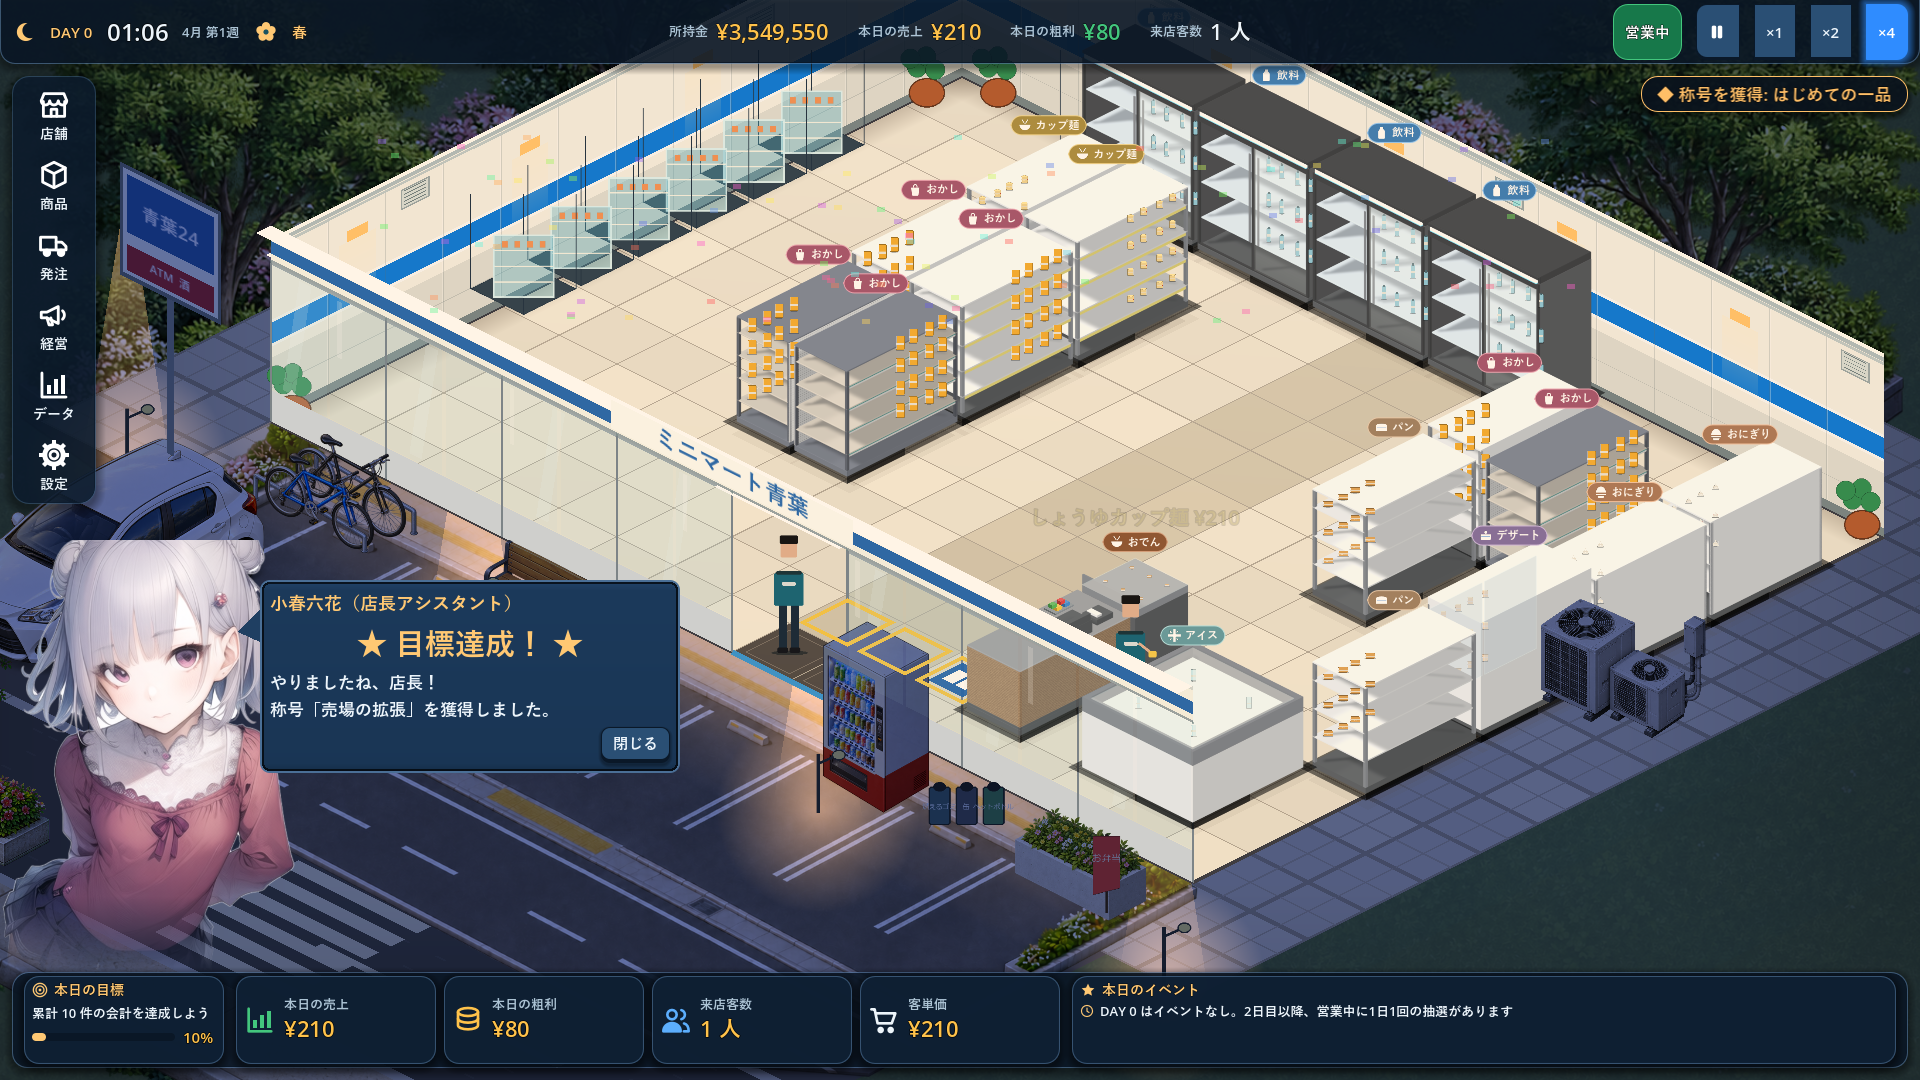
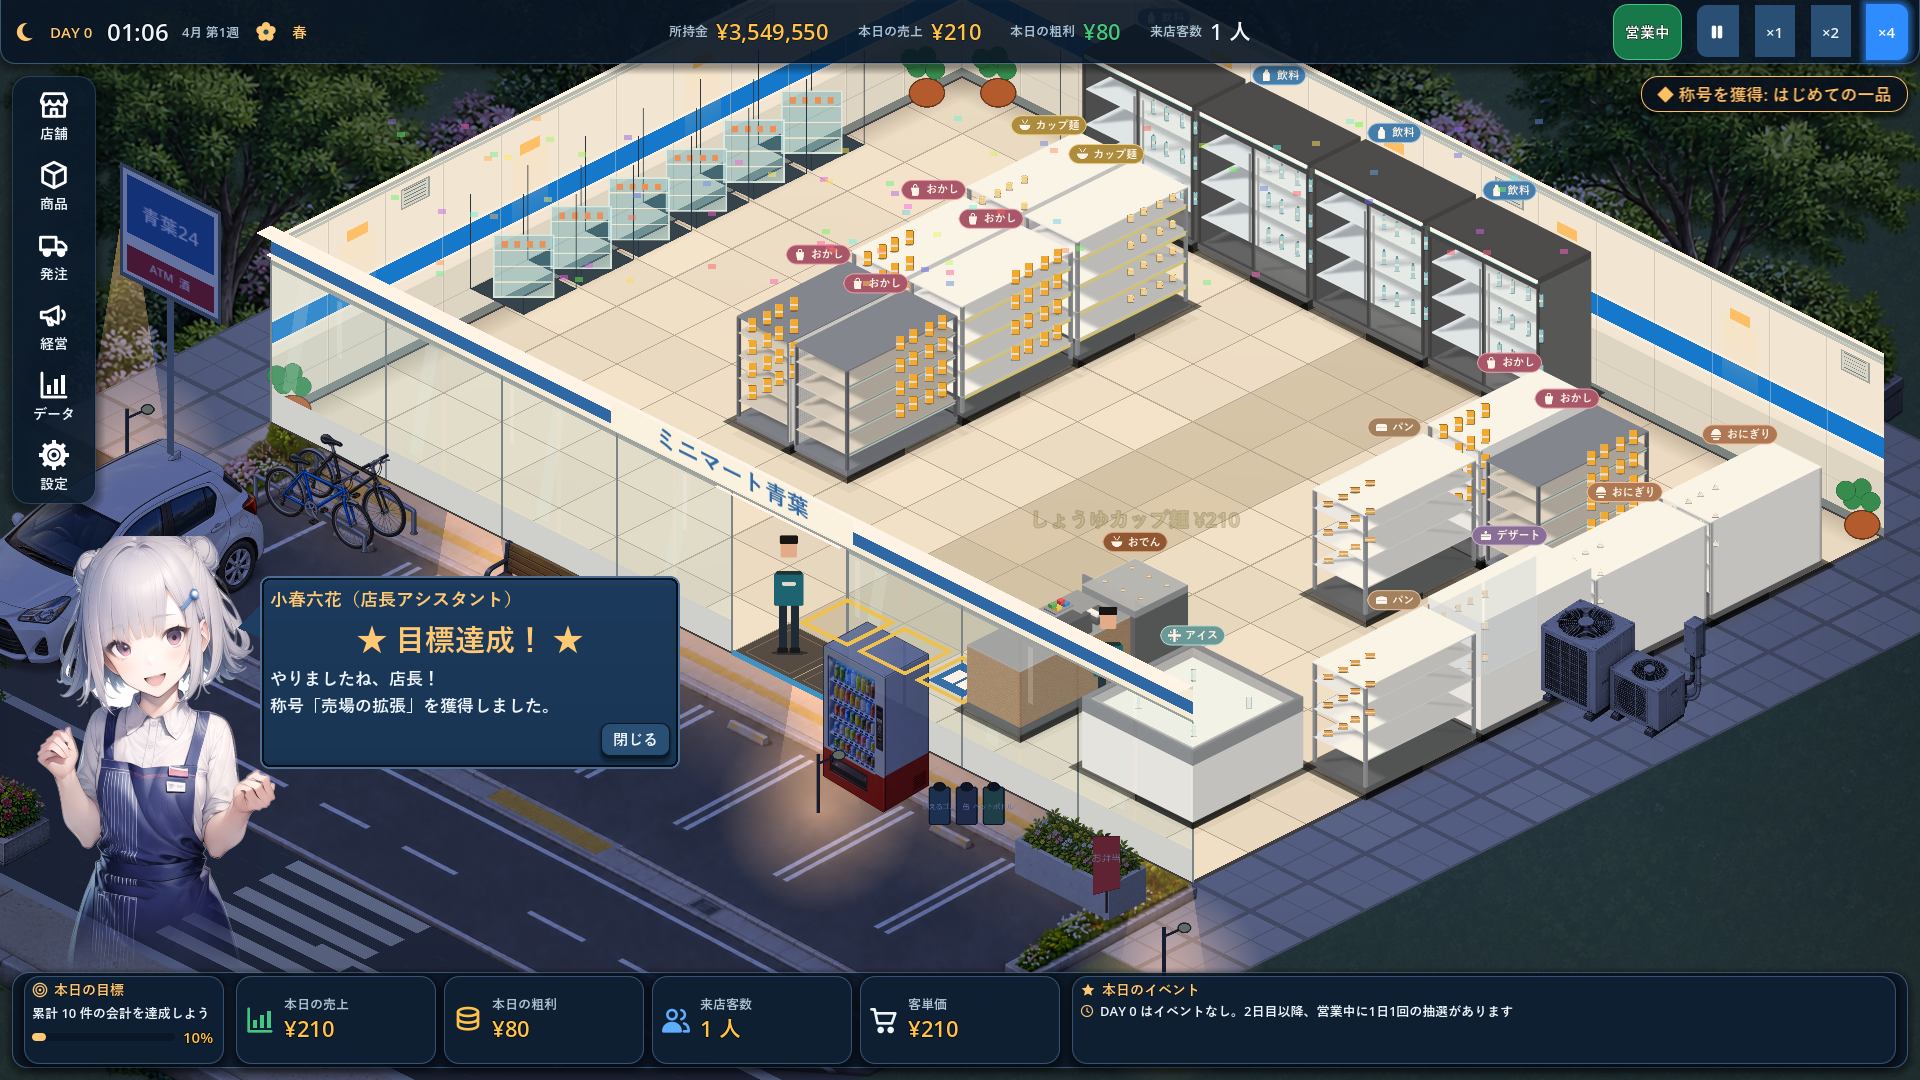
feat: 小春六花's standing figures from the local ComfyUI, with normal / happy / worried faces (#32)
tools/assets/comfy_rikka.py renders her through the user's ComfyUI (Anima
base, Koharu and anima-style LoRAs at 0.8, triggers koharu_rikka /
anima_style) as a convenience-store clerk on white, and keeps each render's
prompt and seed in a .json beside it (assets/source/.../generated: four
normal, two happy and two worried candidates). Picked: normal 3103, happy
3102, worried 3101, cut out with tools/assets/cutout_rikka_stand.py into
assets/ui/characters/rikka_{normal,happy,worried}.png; the provisional cut
of the user's source art is retired.

Her face follows what she says: happy while celebrating, worried over a
day-end card with a loss or no sale (happy otherwise), normal for story
lines. Credits rows for the renders and the three cut-outs.

Changed region(s): [[0.0, 0.4889, 0.3438, 0.8861], [0.5625, 0.55, 0.625, 0.6111]]

diff --git a/tools/assets/comfy_rikka.py b/tools/assets/comfy_rikka.py
@@ -1,0 +1,88 @@
+"""Generates the manager assistant (小春六花) figures with the local ComfyUI (Anima base + Koharu and anima-style
+LoRAs at 0.8, the user's setup) and saves the raw images under assets/source/characters/koharu_rikka/generated/.
+
+    python tools/assets/comfy_rikka.py normal 101 102 103     # expression, then seeds
+    python tools/assets/comfy_rikka.py happy 101
+
+Every image gets a .json next to it with the exact prompt, seed and models, so it can be made again.
+"""
+import json
+import sys
+import time
+import urllib.parse
+import urllib.request
+from pathlib import Path
+
+URL = "http://127.0.0.1:8188"
+OUT = Path("assets/source/characters/koharu_rikka/generated")
+CHARACTER = ("koharu_rikka, anima_style, 1girl, solo, grey hair, purple eyes, double bun, short hair, hair ornament, "
+             "anime illustration, soft shading, delicate lineart, gentle highlights, "
+             "convenience store clerk, white short-sleeved collared shirt, navy blue apron with thin white vertical stripes, "
+             "small name tag on the apron, ")
+FRAMING = ("cowboy shot, upper body to thighs, standing, facing the viewer, centered, full head visible with margin above, "
+           "plain pure white background, simple background, no shadow on the background")
+EXPRESSIONS = {
+    "normal": "gentle friendly smile, closed mouth, looking at viewer, one hand raised slightly in a welcoming gesture, ",
+    "happy": "very happy, big open-mouth smile, eyes bright, both hands in small fists at chest level, cheerful celebrating pose, ",
+    "worried": "worried troubled smile, eyebrows lowered, one hand on her cheek, small sweat drop, looking at viewer, ",
+}
+NEGATIVE = ("low quality, worst quality, malformed hands, extra fingers, missing fingers, fused fingers, extra arms, "
+            "duplicate limbs, distorted face, cropped head, out of frame, text, watermark, logo, signature, "
+            "busy background, scenery, room, shelves, other people")
+WIDTH, HEIGHT = 640, 960
+
+
+def workflow(expression: str, seed: int) -> dict:
+    prefix = "rikka_%s_%d" % (expression, seed)
+    return {
+        "1": {"class_type": "UNETLoader", "inputs": {"unet_name": "Anima-Base-v1.0.safetensors", "weight_dtype": "default"}},
+        "2": {"class_type": "CLIPLoader", "inputs": {"clip_name": "qwen_3_06b_base.safetensors", "type": "qwen_image"}},
+        "3": {"class_type": "LoraLoaderModelOnly", "inputs": {"model": ["1", 0], "lora_name": "Koharu-Koharu-epoch100.safetensors", "strength_model": 0.8}},
+        "4": {"class_type": "LoraLoaderModelOnly", "inputs": {"model": ["3", 0], "lora_name": "anima-style-epoch35-lr5e5.safetensors", "strength_model": 0.8}},
+        "5": {"class_type": "CLIPTextEncode", "inputs": {"clip": ["2", 0], "text": CHARACTER + EXPRESSIONS[expression] + FRAMING}},
+        "6": {"class_type": "CLIPTextEncode", "inputs": {"clip": ["2", 0], "text": NEGATIVE}},
+        "7": {"class_type": "EmptySD3LatentImage", "inputs": {"width": WIDTH, "height": HEIGHT, "batch_size": 1}},
+        "8": {"class_type": "KSampler", "inputs": {"model": ["4", 0], "positive": ["5", 0], "negative": ["6", 0], "latent_image": ["7", 0],
+                                                    "seed": seed, "steps": 24, "cfg": 4.5, "sampler_name": "euler", "scheduler": "simple", "denoise": 1.0}},
+        "9": {"class_type": "VAELoader", "inputs": {"vae_name": "qwen_image_vae.safetensors"}},
+        "10": {"class_type": "VAEDecode", "inputs": {"samples": ["8", 0], "vae": ["9", 0]}},
+        "11": {"class_type": "SaveImage", "inputs": {"images": ["10", 0], "filename_prefix": prefix}},
+    }
+
+
+def _post(path: str, body: dict) -> dict:
+    req = urllib.request.Request(URL + path, data=json.dumps(body).encode(), headers={"Content-Type": "application/json"})
+    with urllib.request.urlopen(req, timeout=30) as r:
+        return json.load(r)
+
+
+def _get(path: str) -> bytes:
+    with urllib.request.urlopen(URL + path, timeout=60) as r:
+        return r.read()
+
+
+def generate(expression: str, seed: int) -> Path:
+    wf = workflow(expression, seed)
+    pid = _post("/prompt", {"prompt": wf})["prompt_id"]
+    for _ in range(600):
+        h = json.loads(_get("/history/" + pid))
+        if pid in h and h[pid].get("outputs"):
+            img = h[pid]["outputs"]["11"]["images"][0]
+            q = urllib.parse.urlencode({"filename": img["filename"], "subfolder": img.get("subfolder", ""), "type": img["type"]})
+            OUT.mkdir(parents=True, exist_ok=True)
+            dst = OUT / ("rikka_%s_%d.png" % (expression, seed))
+            dst.write_bytes(_get("/view?" + q))
+            dst.with_suffix(".json").write_text(json.dumps({"expression": expression, "seed": seed, "comfy_output": img["filename"],
+                                                             "positive": wf["5"]["inputs"]["text"], "negative": NEGATIVE,
+                                                             "base": "Anima-Base-v1.0", "loras": {"Koharu-Koharu-epoch100": 0.8, "anima-style-epoch35-lr5e5": 0.8},
+                                                             "size": [WIDTH, HEIGHT], "steps": 24, "cfg": 4.5, "sampler": "euler/simple"},
+                                                            ensure_ascii=False, indent=2), encoding="utf-8")
+            return dst
+        time.sleep(1)
+    raise TimeoutError(pid)
+
+
+if __name__ == "__main__":
+    expr = sys.argv[1]
+    for s in sys.argv[2:]:
+        print(generate(expr, int(s)))

diff --git a/docs/ASSET_CREDITS.md b/docs/ASSET_CREDITS.md
@@ -24,7 +24,10 @@
 |fixture_atm|assets/generated/fixtures/atm|AI|ユーザー提供AI画像 S01_atm.png → https://github.com/TencentARC/Pixal3D via tools/assets/pixal3d (cutout → Pixal3D → render_fixture.py → crop_fixture.py); assets/generated/fixtures/atm/PROVENANCE.json|Pixal3D b0cb2e1 (MIT) + DINOv3 ViT-L/16 (DINOv3 License) + NAF (Apache-2.0) + Blender 4.5.3 Cycles|ユーザー自身の参照画像から生成。実在ブランド・ロゴなし。RMBG-2.0(非商用)不使用|2026-10-25|ユーザーが採用(2026-10-25)＋validate_manifests|yes|
 |fixture_copier|assets/generated/fixtures/copier|AI|ユーザー提供AI画像 S02_multifunction_copier.png → https://github.com/TencentARC/Pixal3D via tools/assets/pixal3d (cutout → Pixal3D → render_fixture.py → crop_fixture.py); assets/generated/fixtures/copier/PROVENANCE.json|Pixal3D b0cb2e1 (MIT) + DINOv3 ViT-L/16 (DINOv3 License) + NAF (Apache-2.0) + Blender 4.5.3 Cycles|ユーザー自身の参照画像から生成。実在ブランド・ロゴなし。RMBG-2.0(非商用)不使用|2026-10-25|ユーザーが採用(2026-10-25)＋validate_manifests|yes|
 |character_koharu_rikka_source|assets/source/characters/koharu_rikka|third-party|ユーザー提供画像（2026-10-30、Claude Code 会話の添付。512×760 RGB PNG、SHA-256 c72903aeb59b5ec98babecce38fd0dcd26131bca82b1e5ddc64b06807f897a81）。無加工で保存。キャラクター利用ガイドライン https://tokyo6.tokyo/guidelines/|不明（ユーザー提供。作者・生成方法は未記録）|キャラクター「小春六花」（TOKYO6 ENTERTAINMENT）。公式のキャラクター利用ガイドライン https://tokyo6.tokyo/guidelines/ に従う必要あり。画像そのものの作者・利用条件は未確認|2026-10-30|ユーザーが店長アシスタントとして指定(2026-10-30)。配布可はユーザーの判断（2026-10-30）|yes|
-|ui_rikka_stand|assets/ui/characters/rikka_stand.png|third-party|assets/source/characters/koharu_rikka/rikka_source.png の白背景を透過に（tools/assets/cutout_rikka_stand.py：外周から連続する白と髪の隙間の白を透過、縁の白抜き、下端 80〜97% をフェード）。512×737 RGBA。キャラクター利用ガイドライン https://tokyo6.tokyo/guidelines/|Pillow + NumPy + SciPy|元画像と同じ（小春六花のキャラクター利用ガイドライン https://tokyo6.tokyo/guidelines/ 、画像の権利は未確認）|2026-10-30|目視（暗色・明色の背景で確認）。仮の立ち絵。配布可はユーザーの判断（2026-10-30）|yes|
+|character_koharu_rikka_comfy|assets/source/characters/koharu_rikka/generated|AI|ローカル ComfyUI で生成（2026-10-31）：Anima-Base-v1.0 + LoRA Koharu-Koharu-epoch100（0.8、トリガー koharu_rikka）+ anima-style-epoch35-lr5e5（0.8、トリガー anima_style）、640×960、euler/simple 24 steps cfg 4.5。各 PNG の隣の .json に prompt・seed を記録（tools/assets/comfy_rikka.py）。キャラクター利用ガイドライン https://tokyo6.tokyo/guidelines/|Anima-Base-v1.0 + Koharu / anima-style LoRA（ユーザー提供の環境）|小春六花のキャラクター利用ガイドライン https://tokyo6.tokyo/guidelines/ に従う。ベースモデル・LoRA の利用条件はユーザー環境のもの|2026-10-31|目視で表情・手・衣装を確認し、通常 seed 3103・喜び 3102・困り 3101 を採用。配布可はユーザーの判断（2026-10-30）|yes|
+|ui_rikka_normal|assets/ui/characters/rikka_normal.png|AI|assets/source/characters/koharu_rikka/generated/rikka_normal_3103.png（prompt は同名 .json）の白背景を透過に（tools/assets/cutout_rikka_stand.py：外周から連続する白と髪の隙間の白を透過、縁の白抜き、下端 80〜97% をフェード）。640×931 RGBA、SHA-256 先頭 f144e45045766a37|ComfyUI（Anima-Base-v1.0 + Koharu / anima-style LoRA）+ Pillow/NumPy/SciPy|元画像と同じ（小春六花のキャラクター利用ガイドライン https://tokyo6.tokyo/guidelines/ ）|2026-10-31|目視（暗色の背景で確認）。配布可はユーザーの判断（2026-10-30）|yes|
+|ui_rikka_happy|assets/ui/characters/rikka_happy.png|AI|assets/source/characters/koharu_rikka/generated/rikka_happy_3102.png（prompt は同名 .json）の白背景を透過に（tools/assets/cutout_rikka_stand.py：外周から連続する白と髪の隙間の白を透過、縁の白抜き、下端 80〜97% をフェード）。640×931 RGBA、SHA-256 先頭 1127b33720fffbd9|ComfyUI（Anima-Base-v1.0 + Koharu / anima-style LoRA）+ Pillow/NumPy/SciPy|元画像と同じ（小春六花のキャラクター利用ガイドライン https://tokyo6.tokyo/guidelines/ ）|2026-10-31|目視（暗色の背景で確認）。配布可はユーザーの判断（2026-10-30）|yes|
+|ui_rikka_worried|assets/ui/characters/rikka_worried.png|AI|assets/source/characters/koharu_rikka/generated/rikka_worried_3101.png（prompt は同名 .json）の白背景を透過に（tools/assets/cutout_rikka_stand.py：外周から連続する白と髪の隙間の白を透過、縁の白抜き、下端 80〜97% をフェード）。640×931 RGBA、SHA-256 先頭 644df6bab7125949|ComfyUI（Anima-Base-v1.0 + Koharu / anima-style LoRA）+ Pillow/NumPy/SciPy|元画像と同じ（小春六花のキャラクター利用ガイドライン https://tokyo6.tokyo/guidelines/ ）|2026-10-31|目視（暗色の背景で確認）。配布可はユーザーの判断（2026-10-30）|yes|
 |mockup_kuji_screen_rikka_source|assets/source/mockups/kuji_screen_rikka_source.png|AI|ユーザー提供のモックアップ画像（2026-10-31、Claude Code 会話の添付。画像生成 prompt はユーザー側。1672×941 RGB PNG、SHA-256 f84cdc7b1b3f8fb03e76821aa7299440a0a32eff6de3f3e66795f492d0785936）。無加工で保存。小春六花のキャラクター利用ガイドライン https://tokyo6.tokyo/guidelines/|画像生成（ユーザー）|景品・くじ名は架空。キャラクター「小春六花」は公式ガイドライン https://tokyo6.tokyo/guidelines/ に従う|2026-10-31|ユーザーが #138 の限定くじ管理画面として指定(2026-10-31)。配布可はユーザーの判断（2026-10-30）|yes|
 |ui_kuji_screen|assets/ui/kuji/kuji_screen.png|AI|assets/source/mockups/kuji_screen_rikka_source.png の左メニューを切除（x<190）し、変化する数値・状態・台詞を消去（tools/assets/build_kuji_screen.py）。1482×941 RGB。prompt はユーザー側|Pillow + NumPy + SciPy|元画像と同じ（景品は架空、小春六花はガイドライン https://tokyo6.tokyo/guidelines/ に従う）|2026-10-31|目視。配布可はユーザーの判断（2026-10-30）|yes|
 |ui_kuji_hand|assets/ui/kuji/kuji_hand.png|AI|同じ元画像から B 賞の行に重なる小春六花の手を肌色で切り抜き（tools/assets/build_kuji_screen.py）。prompt はユーザー側|Pillow + NumPy + SciPy|元画像と同じ|2026-10-31|目視。配布可はユーザーの判断（2026-10-30）|yes|
